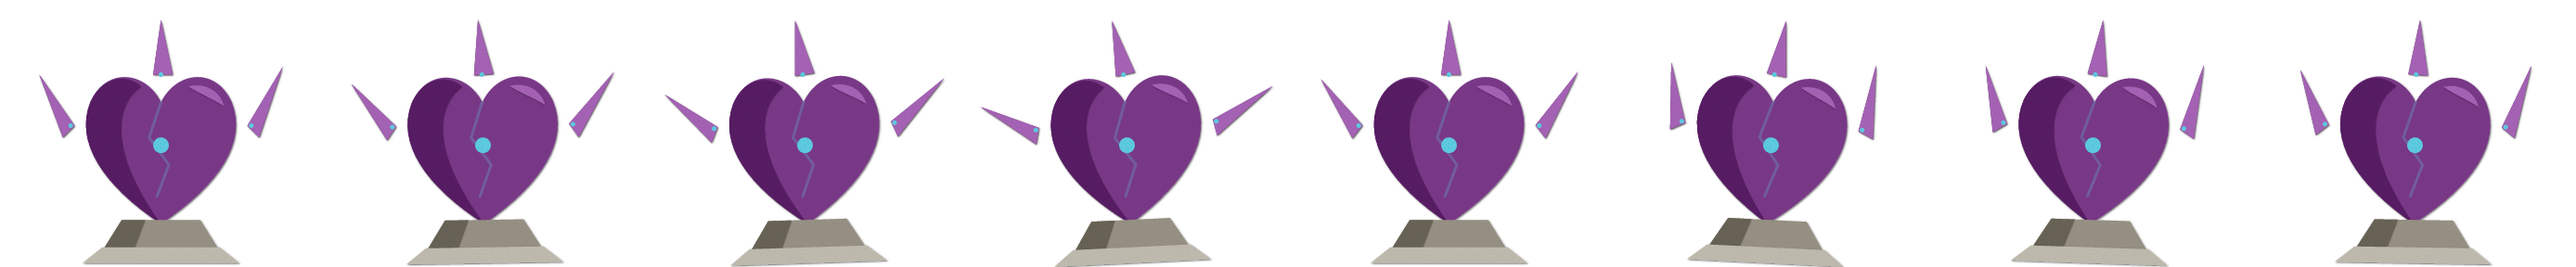
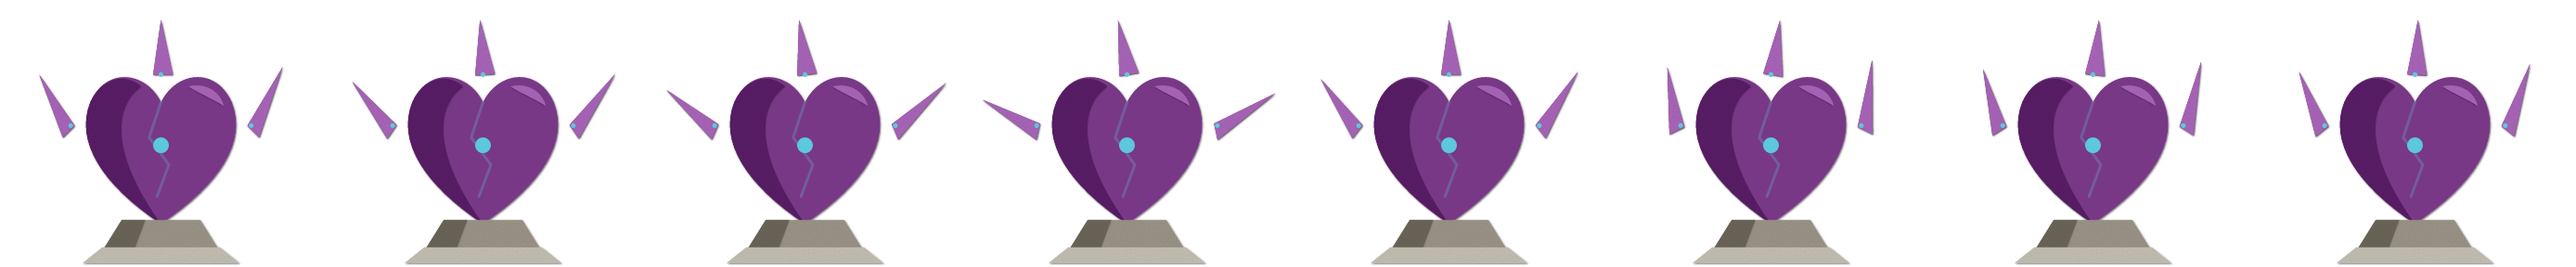
fix(pap): Review MG5 – Sockel Kristallherz fest, Beschreibung Troll, Abnahme (MG5.3)

diff --git a/docs/sprints/aktiv/MG5-papier-bosse/MG5.3-review.md b/docs/sprints/aktiv/MG5-papier-bosse/MG5.3-review.md
@@ -1,6 +1,6 @@
 # MG5.3 · Review MG5
 
-- **Status:** offen
+- **Status:** fertig
 - **Typ:** Review
 - **Agent:** autonom
 - **Domäne:** PAP
@@ -53,5 +53,10 @@ Manuelle Prüfungen (Browser, Xbox, TV) nur, wenn diese Datei sie nennt und 🧑
 
 ## Ergebnis
 
-Wird am Ende der Session ausgefüllt: Nachweis je Kriterium (`AC-01 geprüft: task check grün`,
-`AC-02 verschoben: Grund, B-0NN`), wer manuell geprüft hat, Abweichungen vom Plan, neue Tickets. Bis dahin `–`.
+- Getrennter Reviewer (Opus, nur lesend über MCP mit `checkout`): `assets_list`, `assets_review` gegen a4f66f28, 21 `assets_preview` (alle 17 Animationen, Frame 0 und Mitte).
+- **AC-01 geprüft:** `assets_list {gruppe: bosse}` 6/6 gültig (5× figur, kristallherz-waechter requisite), `hoehe_px` überall 288.
+- **AC-02 geprüft:** `task gen:paper` grün; `golden.json` 6 Einträge mit 17 Dateien, `index.paper.json` 6 Einträge; `task test -- paper` 29/29 Dateien, 187/187 Tests grün.
+- **AC-03 geprüft:** jede Animation per Preview (MG5.1/MG5.2 selbst, MG5.3 Reviewer); `assets_review` 6× neu, kein roter Eintrag. Sichtprüfung durch 🧑 in PS1 steht aus.
+- Befunde behoben: kristallherz-waechter-Sockel kippte im angriff mit (`korpus` ±3° entfernt, Box endet jetzt bei y 284 statt am Rand); troll-koenig-Beschreibung „Holzkeule“ → „Holzschwert“ (passt zum Render).
+- Befunde offen als D-MG5-04 (PS1): lava-golem-Glut zu dünn, Wangenpunkt der Golems, lava-golem-Arme in idle verdeckt, Ratten-Schwanz hell und dünn, Holzschwert kontrastarm. Splitter des Kristallherzens schweben gewollt; Gesicht im angriff vom Arm verdeckt (Erbe der Krieger-Vorlage).
+- `task check:diff`: 2 Workbench-Frontend-Tests (u. a. `CatalogPrompts.test.tsx`) rot unter Parallellast; `k3c-workbench:vitest` einzeln 432/432 grün, der Branch ändert unter `tools/` nichts gegenüber feature/pap (Wackel-Tests wie D-MG2-07).

diff --git a/docs/backlog/B-701-pap-gesammelte-fragen.md b/docs/backlog/B-701-pap-gesammelte-fragen.md
@@ -131,3 +131,4 @@ Siehe Notizen; keine blockiert die Umsetzung (Defaults gelten bis PS1.1).
 | D-MG5-01 | Größe der Bosse | `hoehe_px` 288 (1,5 × Truppen/Monarch 192), Rahmen wie die Grundform | je Boss eigene Größe | MG5, US1 | offen |
 | D-MG5-02 | Farben der Bosse | goblin-anfuehrer Haut `smaragd`; troll-koenig Haut `stein`, Krone `gold`, Keule `holz`; ratten-koenigin Fell `stoff`, Robe `purpur`; lava-golem `stein` mit Glut `koenigsrot`/`gold`; splitter-titan `stein` mit Kristallen `purpur`/`edelstein`; Herz `purpur` | neue Materialien (Lava, Kristall) in Lane `stil` | MG5 | offen |
 | D-MG5-03 | Rig der Golems | lava-golem und splitter-titan als `figur` (gehen, schlagen), kristallherz-waechter als `requisite` mit Keyframes (steht); weicht für Golems von D-08 („requisite“) ab | Golem als `requisite` | MG5 | offen |
+| D-MG5-04 | Lesbarkeit der Bosse (Review MG5.3) | bleibt wie gerendert, Sichtprüfung in PS1 entscheidet: lava-golem-Glut nur als dünne Risse (schwer vom splitter-titan zu unterscheiden), Wangenpunkt der Figur-Vorlage bei beiden Golems, lava-golem-Arme in idle hinter dem Rumpf, heller dünner Schwanz der ratten-koenigin, Holzschwert des troll-koenig kontrastarm | Glut flächig in `koenigsrot`/`gold`, Wangenpunkt entfernen, Arme abspreizen, Schwanz mit ton `schatten` | MG5, PS1 | offen |

diff --git a/docs/sprints/aktiv/MG5-papier-bosse/README.md b/docs/sprints/aktiv/MG5-papier-bosse/README.md
@@ -65,7 +65,7 @@ keine (Defaults als D-MG5-Zeilen in B-701)
 |---|---|---|---|---|
 | MG5.1 | `MG5.1-minibosse-humanoid.md` | Umsetzung | autonom | fertig |
 | MG5.2 | `MG5.2-golems-kristall.md` | Umsetzung | autonom | fertig |
-| MG5.3 | `MG5.3-review.md` | Review | autonom | offen |
+| MG5.3 | `MG5.3-review.md` | Review | autonom | fertig |
 
 Lane `bosse`, nacheinander; Umsetzung Sonnet, Review Opus; keine Mensch-Session (Sichtprüfung in PS1).
 
@@ -75,5 +75,7 @@ Lane `bosse`, nacheinander; Umsetzung Sonnet, Review Opus; keine Mensch-Session 
 
 ## Abnahme
 
-Wird von der Review-Session (Doku-Sprint: letzte Session) ausgefüllt, höchstens fünf Zeilen: Datum, Kriterien
-(Verweis auf Session-Ergebnisse), behobene Befunde, neue Tickets. Bis dahin `–`.
+- 2026-11-07, Review MG5.3 (Opus-Reviewer, Claude): AC-01, AC-02, AC-03 erfüllt (Nachweise in MG5.1–MG5.3); Sichtprüfung durch 🧑 in PS1 offen.
+- Behoben: Sockel des kristallherz-waechter kippte im angriff mit; Beschreibung troll-koenig (Holzschwert).
+- Offen als D-MG5-01 bis D-MG5-04 in B-701 (Größe, Farben, Rig der Golems, Lesbarkeit). Keine neuen Tickets.
+- `task check:diff`: nur Workbench-Frontend-Wackel-Tests unter Last rot, einzeln 432/432 grün (D-MG2-07).
